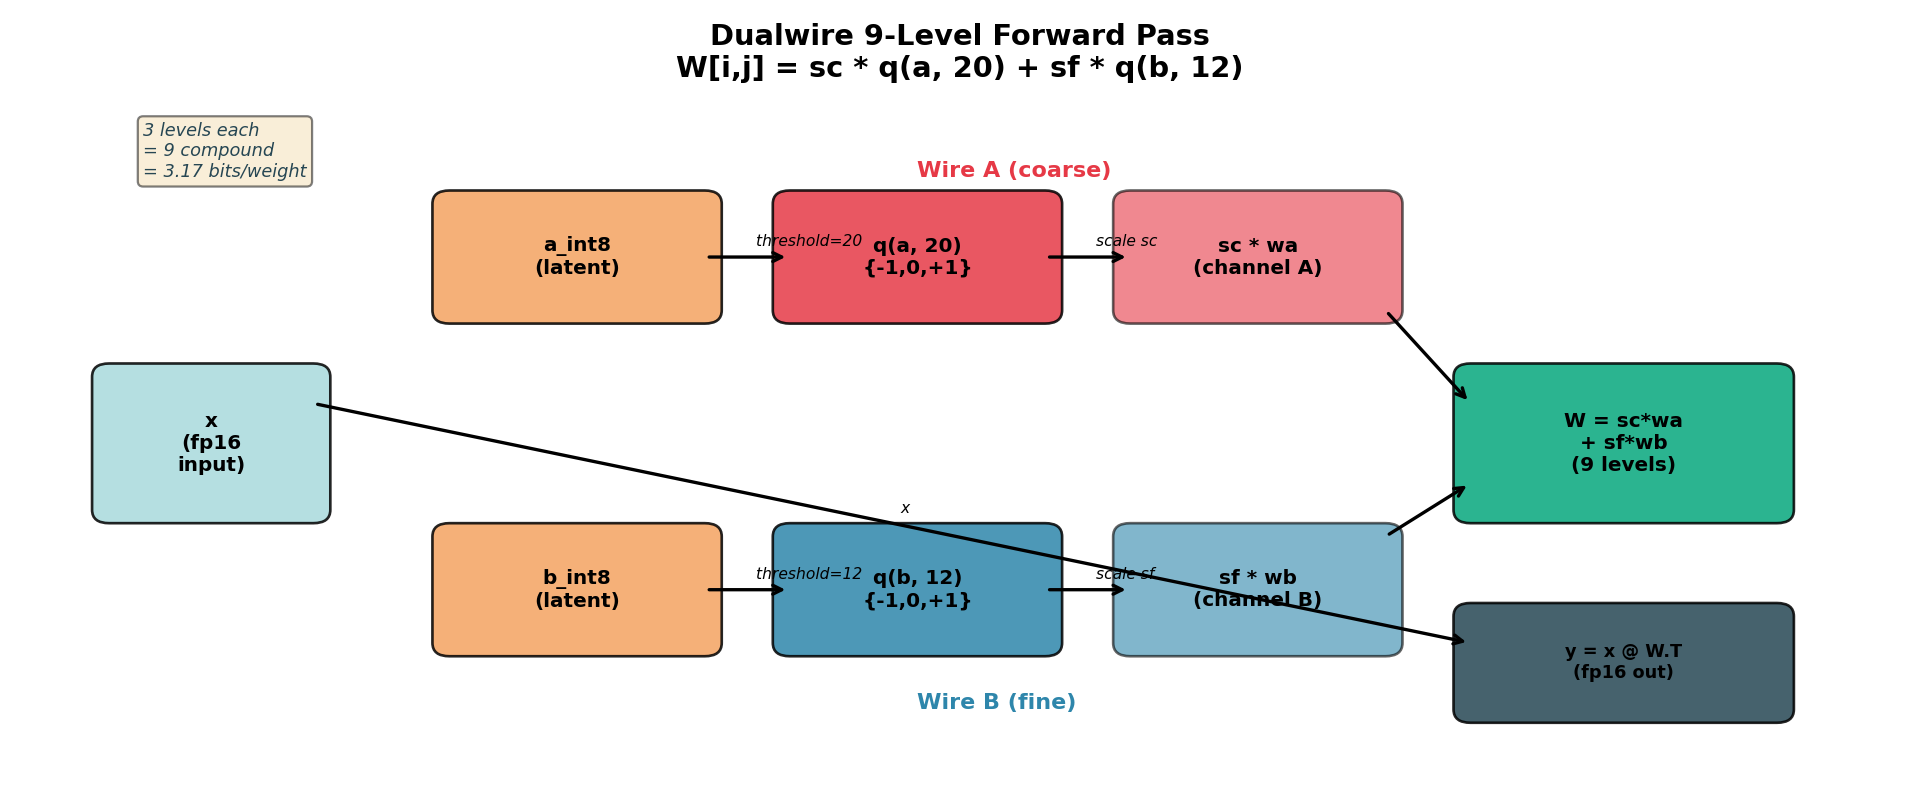
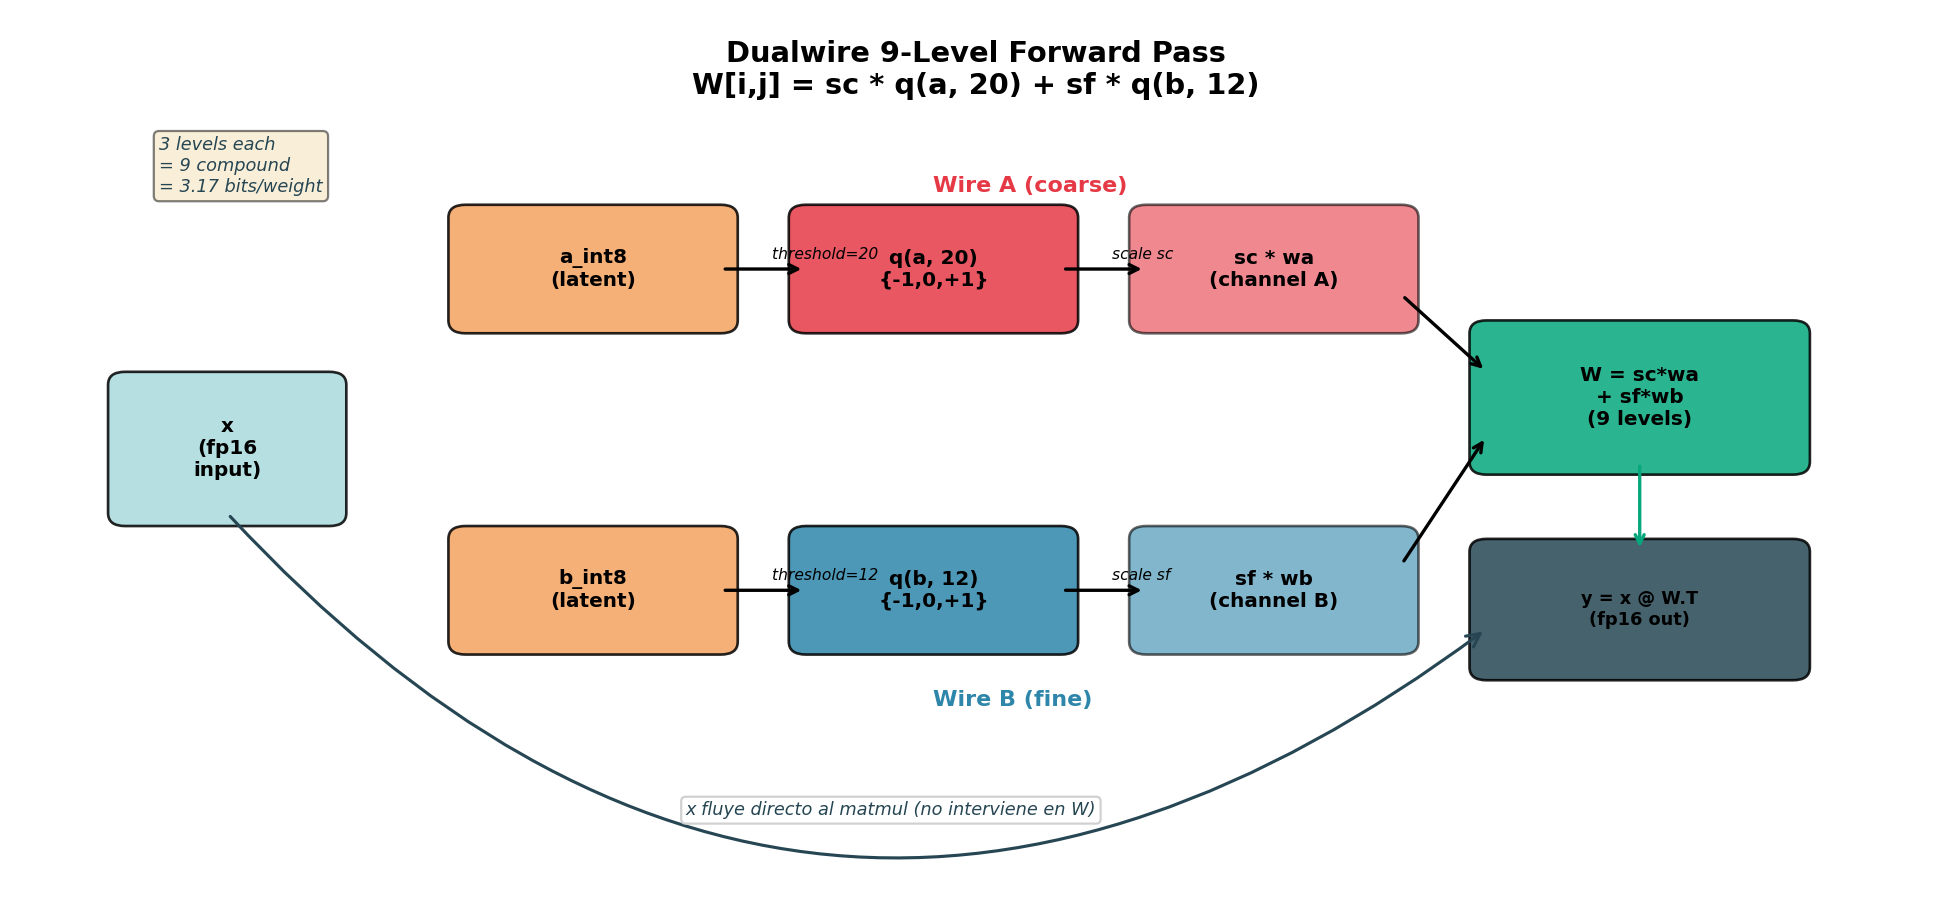
fix(charts): reroute dualwire arrow, relabel architecture, correct BitNet scale
- 11_dualwire_forward: route x->matmul arrow below diagram (no crossing)
- 14_model_architecture: move layer labels above blocks, legend under LM Head
- 19_convergence: BitNet now ~2000xN (empirical HF data), not 4.3xN

Also adds LinkedIn/Discord launch posts (EN+ES, v1+v2).

diff --git a/social/discord_post.md b/social/discord_post.md
@@ -1,0 +1,66 @@
+# Discord post — Wraith NPQN launch
+
+---
+
+```
+╭─ [ WR-01 · HAUNT PROTOCOL · ONLINE ] ────────────────────────╮
+│                                                               │
+│   >  systemctl start wraith.service                           │
+│   >  ● wraith.service active · uptime: 1 year · native int    │
+│   >  ● substrate / vessel / signal · all green                │
+│                                                               │
+╰───────────────────────────────────────────────────────────────╯
+```
+
+**Hey — dropping an LLM I've been cooking for a year.**
+
+It's called **Wraith**, a **Native Pure Quantized Network (NPQN)** — new architectural class. TL;DR: the entire thing (training + inference) runs on integers end-to-end. No bf16 masters. No fp32 Adam. No post-hoc int4 conversion. **Weights are discrete from step 0**, the optimizer state is a persistent int16 shadow with stochastic rounding, and the forward uses a 9-level Dualwire scheme at 3.17 bits/weight (Shannon-optimal for 2 ternary channels).
+
+**Numbers from the 186M validation run** (1.6B tokens, sub-Chinchilla, architecture-identical baseline LLaMA fp16):
+
+```
+  val PPL WikiText-2 ........ Wraith 102   vs   LLaMA 636   (6.24× better)
+  train-chunk PPL ........... Wraith  74   vs   LLaMA 171   (2.29× better)
+  generalization gap ........ Wraith 1.37× vs   LLaMA 3.59× (2.62× smaller)
+  decode throughput ......... 501 tok/s on RTX 5070 @ 114 MB VRAM @ 64 mJ/tok
+  packed model size ......... 74.9 MB  (98.2% of Shannon limit, lossless)
+  training cost ............. $16 vs $179 extrapolated for fp16 at matched quality
+```
+
+The kicker on the generalization gap: **the ratio train-vs-held-out is 2.29× in both regimes (2.23× held-out) → it's not overfitting, it's intrinsic to NPQN training.** Wraith extracts more signal per token because the bounded hypothesis class (3.17 bits) prevents memorizing noise.
+
+**What's in the repo**
+• Full paper in ES + EN (NPQN framing, PAC-Bayes section, DSSC failure mode + ASR fix)
+• 21 figures, all measured data
+• **The packed checkpoint is public** — 74.9 MB, CC-BY-NC-SA 4.0, reproduce every number yourself
+• Pitch deck for scaling Wraith to 2B ($3K compute ask)
+• Logo, NOTICE, LICENSE
+
+**What's NOT in the repo** (reserved IP, available under license)
+• The NPQN training pipeline (shadow int16 + SR + DSSC/ASR)
+• The CUDA inference engine (packed 2-bit GEMV, fused QKV, CUDA Graphs)
+• The C++ AVX2 CPU engine
+• The Dualwire 5-trit/byte codec
+
+**What I need**
+
+I'm one dude in San Juan, Argentina, been building this solo for a year while working backend full-time. The 186M run is the end of what I can validate with consumer hardware + Colab Pro. To prove NPQN scales, I need Wraith-2B at 100B tokens — **~$3,000 in H100 compute**.
+
+Looking for:
+• **Feedback / tear-down** of the paper — seriously, if you see a hole, I want to know
+• Anyone doing QAT / integer training research — let's compare notes
+• Collaborators for the 2B scale-up (co-authorship on the follow-up paper is on the table)
+• Sponsors / angels who think this is worth underwriting
+
+Everything lives at:
+🔗 **https://github.com/blasfemico/Wraith**
+
+Paper ES (canonical): `paper/wraith_paper_es.md`
+Paper EN: `paper/wraith_paper_en.md`
+Checkpoint: `checkpoint/wraith-186m-npqn-packed.pt` (Git LFS)
+Pitch: `funding/pitch_deck.md`
+
+Roast me, help me, or both. DMs open.
+
+— blasfemia
+`substrate / vessel / signal`

diff --git a/social/discord_post_es.md b/social/discord_post_es.md
@@ -1,0 +1,66 @@
+# Discord post — Lanzamiento Wraith NPQN (ES)
+
+---
+
+```
+╭─ [ WR-01 · HAUNT PROTOCOL · ONLINE ] ────────────────────────╮
+│                                                               │
+│   >  systemctl start wraith.service                           │
+│   >  ● wraith.service active · uptime: 1 año · native int     │
+│   >  ● substrate / vessel / signal · todo verde               │
+│                                                               │
+╰───────────────────────────────────────────────────────────────╯
+```
+
+**Che — les dejo un LLM que estuve cocinando durante un año.**
+
+Se llama **Wraith**, un **Native Pure Quantized Network (NPQN)** — clase arquitectónica nueva. TL;DR: todo el asunto (training + inferencia) corre en enteros de punta a punta. Sin masters bf16. Sin Adam fp32. Sin conversión int4 post-hoc. **Los pesos son discretos desde el step 0**, el estado del optimizer es un shadow int16 persistente con redondeo estocástico, y el forward usa un esquema Dualwire de 9 niveles a 3.17 bits/peso (óptimo de Shannon para 2 canales ternarios).
+
+**Números del run de validación 186M** (1.6B tokens, sub-Chinchilla, baseline LLaMA fp16 con arquitectura idéntica):
+
+```
+  val PPL WikiText-2 ........ Wraith 102   vs   LLaMA 636   (6.24× mejor)
+  train-chunk PPL ........... Wraith  74   vs   LLaMA 171   (2.29× mejor)
+  brecha de generalización .. Wraith 1.37× vs   LLaMA 3.59× (2.62× menor)
+  throughput de decode ...... 501 tok/s en RTX 5070 @ 114 MB VRAM @ 64 mJ/tok
+  tamaño empaquetado ........ 74.9 MB  (98.2% del límite de Shannon, lossless)
+  costo de training ......... $16 vs $179 extrapolado para fp16 a igual calidad
+```
+
+El dato clave sobre la brecha de generalización: **el ratio train-vs-held-out es 2.29× en ambos regímenes (held-out 2.23×) → no es overfitting, es intrínseco al NPQN training.** Wraith extrae más señal por token porque la clase de hipótesis acotada (3.17 bits) le impide memorizar ruido.
+
+**Qué hay en el repo**
+• Paper completo en ES + EN (framework NPQN, sección PAC-Bayes, failure mode DSSC + fix ASR)
+• 21 figuras, toda data medida
+• **El checkpoint empaquetado es público** — 74.9 MB, CC-BY-NC-SA 4.0, podés reproducir cada número vos mismo
+• Pitch deck para escalar Wraith a 2B ($3K de compute)
+• Logo, NOTICE, LICENSE
+
+**Qué NO está en el repo** (propiedad intelectual reservada, disponible bajo licencia)
+• Pipeline de training NPQN (shadow int16 + SR + DSSC/ASR)
+• Motor de inferencia CUDA (GEMV 2-bit empaquetado, fused QKV, CUDA Graphs)
+• Motor CPU C++ AVX2
+• Codec Dualwire 5-trit/byte
+
+**Qué necesito**
+
+Soy uno solo en San Juan, Argentina, construyendo esto en solitario durante un año mientras trabajaba full-time en backend. El run a 186M es el final de lo que puedo validar con hardware consumer + Colab Pro. Para probar que NPQN escala, necesito Wraith-2B a 100B tokens — **~$3,000 en compute H100**.
+
+Busco:
+• **Feedback / destrucción** del paper — en serio, si ven un agujero, quiero saberlo
+• Gente que esté haciendo investigación en QAT / training entero — comparemos notas
+• Colaboradores para el scale-up a 2B (la co-autoría del follow-up paper está sobre la mesa)
+• Sponsors / ángeles que piensen que vale la pena bancar esto
+
+Todo vive en:
+🔗 **https://github.com/blasfemico/Wraith**
+
+Paper ES (canonical): `paper/wraith_paper_es.md`
+Paper EN: `paper/wraith_paper_en.md`
+Checkpoint: `checkpoint/wraith-186m-npqn-packed.pt` (Git LFS)
+Pitch: `funding/pitch_deck.md`
+
+Destrúyanme, ayúdenme, o ambos. DMs abiertos.
+
+— blasfemia
+`substrate / vessel / signal`

diff --git a/social/linkedin_post.md b/social/linkedin_post.md
@@ -1,0 +1,47 @@
+# LinkedIn post — Wraith NPQN launch
+
+---
+
+🚨 **After a year of research, I'm open-sourcing Wraith — the first Native Pure Quantized Network (NPQN).**
+
+A new architectural class of LLM: trained from scratch with a pipeline 100% integer — no bf16 masters, no fp32 Adam states, no post-hoc quantization. Every stage of training and inference operates on discrete weights.
+
+**What makes it different**
+
+Three properties that no prior LLM combines simultaneously at scale:
+
+• **Native** — quantized weights from random init, not retrofitted onto a fp16 checkpoint
+• **Pure** — the entire weight pipeline is fixed-point integer, including the optimizer
+• **Quantized** — 9-level Dualwire scheme at 3.17 bits/weight (Shannon-optimal for two ternary channels)
+
+Prior art has each ingredient separately — BitNet is native and quantized but keeps bf16 masters; GPTQ/AWQ are pure and quantized but post-hoc; NITI/WAGE are native and pure but never scaled to LLMs. **The intersection is what's new.**
+
+**Measured results (186M params, 1.6B training tokens, sub-Chinchilla)**
+
+↳ Val PPL 102 on WikiText-2 vs 636 for an architecture-identical fp16 baseline — a **6.24× improvement** at the same token budget
+↳ Generalization gap 1.37× vs LLaMA-fp16's 3.59× — **2.62× smaller**, consistent with PAC-Bayes theory for bounded hypothesis classes
+↳ **501 tokens/sec** decode @ **114 MB VRAM** @ **64 mJ/token** on a consumer RTX 5070
+↳ Full model packed to **74.9 MB** on disk (98.2% of the Shannon limit, bit-exact lossless)
+↳ Training cost to reach deployable quality: **$15.99 vs $178.75 extrapolated for fp16** — 11.2× cheaper at matched quality
+
+The checkpoint is published openly under CC-BY-NC-SA 4.0. The paper, all 21 figures, and the funding proposal for scaling to 2B are all in the repo.
+
+**Why I'm sharing now**
+
+I'm an independent researcher in San Juan, Argentina. I've been building this alone for the past year while holding a full-time backend job. The 186M validation is done — what comes next is scaling. Wraith-2B requires ~$3,000 in compute for 100B tokens on an H100.
+
+I'm looking for:
+
+→ **Co-researchers / co-founders** to help push NPQN to production scale
+→ **Sponsors / angel investors** interested in underwriting the 2B validation
+→ **Academic collaborators** for 20B / 70B scaling experiments
+→ **Reviewers** willing to tear the paper apart — I'd rather learn the flaws now than after a preprint
+
+**Repo + paper + checkpoint + pitch deck**
+→ https://github.com/blasfemico/Wraith
+
+Open to a DM if any of this resonates.
+
+---
+
+#MachineLearning #LLM #Quantization #AIResearch #OpenSource #DeepLearning #NPQN

diff --git a/social/linkedin_post_es.md b/social/linkedin_post_es.md
@@ -1,0 +1,47 @@
+# LinkedIn post — Lanzamiento Wraith NPQN (ES)
+
+---
+
+🚨 **Después de un año de investigación, Presento a Wraith — el primer Native Pure Quantized Network (NPQN).**
+
+Una clase arquitectónica nueva de LLM: entrenado desde cero con un pipeline 100% entero — sin masters bf16, sin estados de Adam fp32, sin cuantización post-hoc. Cada etapa del entrenamiento y de la inferencia opera sobre pesos discretos.
+
+**Qué lo hace distinto**
+
+Tres propiedades que ningún LLM previo combina simultáneamente a escala:
+
+• **Native** — pesos cuantizados desde la inicialización aleatoria, no parchados sobre un checkpoint fp16
+• **Pure** — todo el pipeline de pesos es aritmética entera de punto fijo, incluyendo el optimizador
+• **Quantized** — esquema Dualwire de 9 niveles a 3.17 bits/peso (óptimo de Shannon para dos canales ternarios)
+
+El estado del arte tiene los ingredientes por separado — BitNet es native y quantized pero mantiene masters bf16; GPTQ/AWQ son pure y quantized pero post-hoc; NITI/WAGE son native y pure pero nunca escalaron a LLMs. **La intersección es lo nuevo.**
+
+**Resultados medidos (186M parámetros, 1.6B tokens de training, régimen sub-Chinchilla)**
+
+↳ Val PPL 102 en WikiText-2 vs 636 del baseline fp16 con arquitectura idéntica — una **mejora de 6.24×** al mismo presupuesto de tokens
+↳ Brecha de generalización 1.37× vs 3.59× del LLaMA-fp16 — **2.62× menor**, consistente con la teoría PAC-Bayes para clases de hipótesis acotadas
+↳ **501 tokens/segundo** de decode @ **114 MB de VRAM** @ **64 mJ/token** en una RTX 5070 consumer
+↳ Modelo empaquetado a **74.9 MB** en disco (98.2% del límite de Shannon, bit-exacto sin pérdida)
+↳ Costo de entrenamiento a calidad deployable: **$15.99 vs $178.75 extrapolado para fp16** — 11.2× más barato a igual calidad
+
+El checkpoint está publicado abierto bajo licencia CC-BY-NC-SA 4.0. El paper, las 21 figuras y la propuesta financiera para escalar a 2B están en el repo.
+
+**Por qué lo comparto ahora**
+
+Soy investigador independiente en San Juan, Argentina. Lo construí solo durante el último año, compaginándolo con un trabajo full-time de backend. La validación a 186M está hecha — lo que sigue es escalar. Wraith-2B requiere ~$3,000 en compute para 100B tokens en H100.
+
+Busco:
+
+→ **Co-investigadores / co-founders** para llevar NPQN a escala de producción
+→ **Sponsors / inversores ángeles** interesa dos en financiar la validación a 2B
+→ **Colaboradores académicos** para los experimentos de escalado (20B / 70B)
+→ **Reviewers** dispuestos a destruir el paper — prefiero conocer los agujeros ahora y no después del preprint
+
+**Repo + paper + checkpoint + pitch deck**
+→ https://github.com/blasfemico/Wraith
+
+Abierto a un DM si algo de esto resuena.
+
+---
+
+#MachineLearning #LLM #Quantization #AIResearch #OpenSource #DeepLearning #NPQN

diff --git a/social/discord_post_v2.md b/social/discord_post_v2.md
@@ -1,0 +1,41 @@
+# Discord post v2 — Wraith NPQN launch (EN, presentation)
+
+---
+
+```
+╭─ [ WR-01 · HAUNT PROTOCOL · ONLINE ] ────────────────────────╮
+│                                                               │
+│   >  wraith · 186M params · 74.9 MB · 501 tok/s               │
+│   >  substrate / vessel / signal · all green                  │
+│                                                               │
+╰───────────────────────────────────────────────────────────────╯
+```
+
+👻 **Hey everyone — let me introduce Wraith.**
+
+An LLM I've been building solo for the past year from San Juan, Argentina. Today I'm opening it to the public: full paper, 21 figures, reproducible checkpoint and pitch deck — all in one repo.
+
+**Short version:**
+
+Wraith is a **186M-parameter** LLM that packs to **74.9 MB**, runs at **501 tokens/sec** on a consumer RTX 5070, and sips **64 mJ per token**. At that size it delivers **6.24× better perplexity** than an architecture-identical LLaMA fp16 trained on the same tokens.
+
+**The interesting bit** is how it's trained: integer end-to-end, no bf16 masters, no fp32 Adam, no post-hoc quantization. It's a **new architectural class** I'm calling NPQN (Native Pure Quantized Network). The paper goes into the why.
+
+**What you'll find in the repo:**
+
+📄 Full paper (ES canonical + EN translation)
+🖼️ 21 figures, all measured data (nothing projected without labeling)
+💾 Public 74.9 MB checkpoint — reproduce every number yourself
+💰 Pitch deck to scale to 2B (~$3K H100 compute)
+📜 CC-BY-NC-SA 4.0 license
+
+🔗 **https://github.com/blasfemico/Wraith**
+
+**What I'm looking for:**
+
+I'm not selling anything — I'm sharing it and inviting people to tear it apart. If you're researching QAT, integer training, small LLMs, or are just curious, drop by the repo. Feedback, critique, issues, DMs — all welcome. If anyone wants to collaborate on the 2B scale-up, the door is open.
+
+Thanks for reading 🙏
+
+— blasfemia
+`substrate / vessel / signal`

diff --git a/social/discord_post_v2_es.md b/social/discord_post_v2_es.md
@@ -1,0 +1,41 @@
+# Discord post v2 — Lanzamiento Wraith NPQN (ES, presentación)
+
+---
+
+```
+╭─ [ WR-01 · HAUNT PROTOCOL · ONLINE ] ────────────────────────╮
+│                                                               │
+│   >  wraith · 186M params · 74.9 MB · 501 tok/s               │
+│   >  substrate / vessel / signal · todo verde                 │
+│                                                               │
+╰───────────────────────────────────────────────────────────────╯
+```
+
+👻 **Hola gente — les presento a Wraith.**
+
+Un LLM que estuve construyendo solo durante un año en San Juan, Argentina. Hoy lo abro al público: paper completo, 21 figuras, checkpoint reproducible y pitch deck — todo en un solo repo.
+
+**Lo corto:**
+
+Wraith es un LLM de **186M parámetros** que pesa **74.9 MB** empaquetado, corre a **501 tokens/seg** en una RTX 5070 consumer y consume **64 mJ por token**. A ese tamaño tira **6.24× mejor perplejidad** que un LLaMA fp16 con arquitectura idéntica entrenado con los mismos tokens.
+
+**Lo interesante** es cómo se entrena: enteros de punta a punta, sin bf16 masters, sin Adam fp32, sin cuantización post-hoc. Es una **clase arquitectónica nueva** que llamo NPQN (Native Pure Quantized Network). El paper explica el porqué.
+
+**Qué van a encontrar en el repo:**
+
+📄 Paper completo (ES canonical + EN)
+🖼️ 21 figuras, toda data medida (nada proyectado sin etiquetar)
+💾 Checkpoint público de 74.9 MB — reproducí los números vos mismo
+💰 Pitch deck para escalar a 2B (~$3K en H100)
+📜 Licencia CC-BY-NC-SA 4.0
+
+🔗 **https://github.com/blasfemico/Wraith**
+
+**Qué busco:**
+
+No vengo a vender nada — vengo a compartirlo y a invitar a que lo revienten. Si hacen research en QAT, integer training, small LLMs, o simplemente tienen curiosidad, pasen por el repo. Cualquier feedback, crítica, issue, o DM es bienvenido. Si alguien quiere colaborar en el scale-up a 2B, la puerta está abierta.
+
+Gracias por leer 🙏
+
+— blasfemia
+`substrate / vessel / signal`